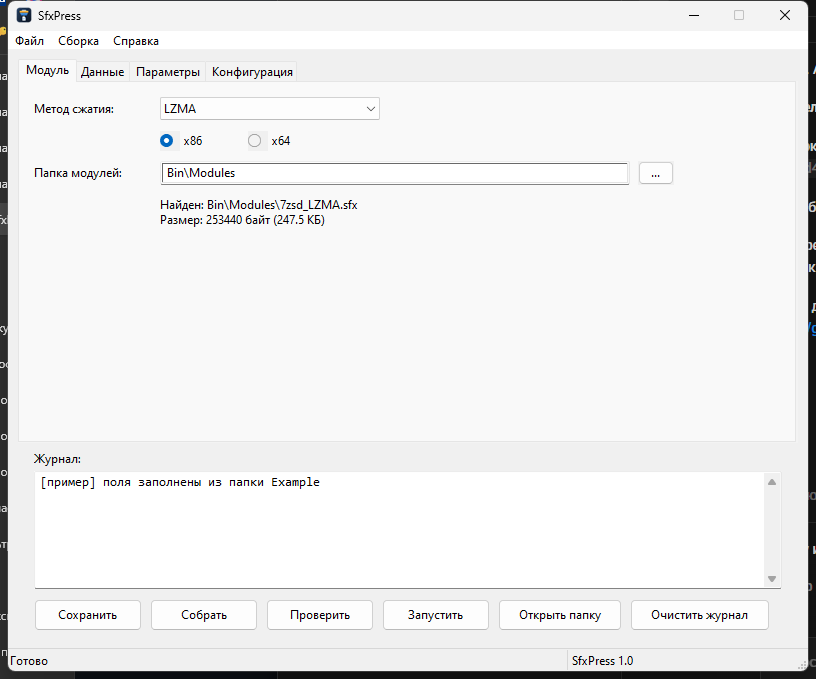
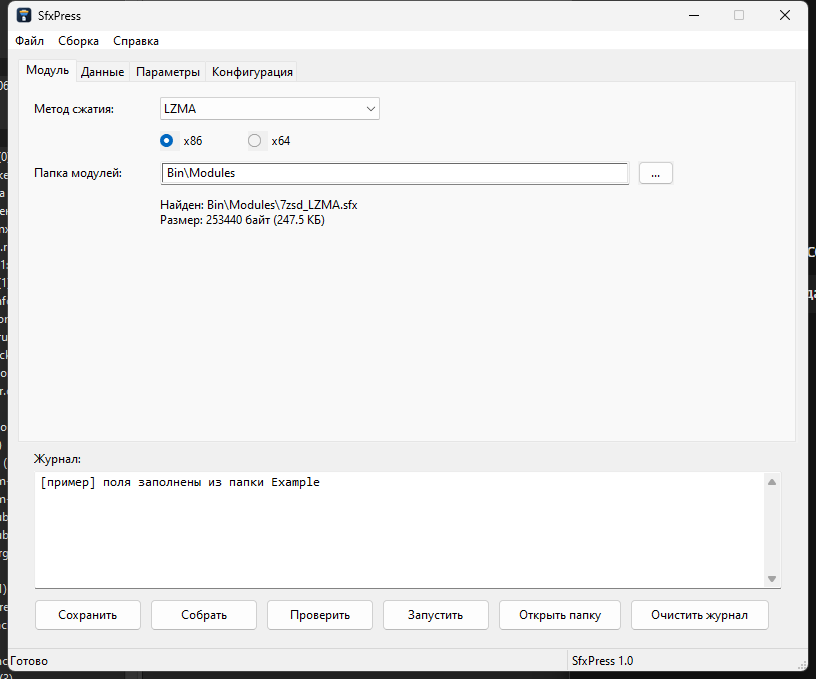
Порог поиска архива 2 МБ в соответствии с модулем 7zSD-SFX-Mod

diff --git a/help_src/build.html b/help_src/build.html
@@ -32,7 +32,7 @@ td, th { border: 1px solid #ccc; padding: 4px 8px; vertical-align: top; }
 </ul>
 
 <h2>Ограничение модуля</h2>
-<p>Конфигурация и начало архива должны попасть в первые 1 МБ файла. Если модуль
+<p>Конфигурация и начало архива должны попасть в первые 2 МБ файла. Если модуль
 и конфигурация больше, SfxPress предупредит и не станет собирать.</p>
 
 <h2>Сборка из командной строки</h2>

diff --git a/src/main.cpp b/src/main.cpp
@@ -416,8 +416,8 @@ static std::wstring BuildConfigText(std::wstring* err)
         return c;
     }
 
-    if (c.size() > 1024 * 1024) {
-        if (err) *err = L"Конфигурация больше 1 МБ: модуль не найдёт ни её, ни архив.";
+    if (c.size() > 2 * 1024 * 1024) {
+        if (err) *err = L"Конфигурация больше 2 МБ: модуль не найдёт ни её, ни архив.";
     }
     return c;
 }
@@ -490,7 +490,7 @@ static unsigned long long FindArchiveOffset(const std::wstring& path)
 {
     FILE* f = _wfopen(path.c_str(), L"rb");
     if (!f) return ULLONG_MAX;
-    std::vector<unsigned char> buf(1 << 20);
+    std::vector<unsigned char> buf(2 << 20);
     size_t n = fread(buf.data(), 1, buf.size(), f);
     fclose(f);
     const unsigned char sig[6] = { 0x37, 0x7A, 0xBC, 0xAF, 0x27, 0x1C };
@@ -582,8 +582,8 @@ static void DoBuild(bool verifyOnly)
 
     std::string cfgUtf8 = ToUtf8(cfg);
 
-    if (modSize + cfgUtf8.size() > 1024 * 1024) {
-        Log(L"[ошибка] Модуль + конфигурация больше 1 МБ: архив окажется за границей поиска.");
+    if (modSize + cfgUtf8.size() > 2 * 1024 * 1024) {
+        Log(L"[ошибка] Модуль + конфигурация больше 2 МБ: архив окажется за границей поиска.");
         SetStatus(L"Слишком большой заголовок");
         return;
     }
@@ -841,7 +841,7 @@ static void CreateUi(HWND hWnd)
           L"  [модуль .sfx] + [текст конфигурации UTF-8] + [архив]\r\n\r\n"
           L"Можно указать готовый .7z или папку: папка упакуется автоматически\r\n"
           L"(через Bin\\7z.exe рядом с конструктором).\r\n\r\n"
-          L"Конфигурация и начало архива должны попасть в первые 1 МБ файла.",
+          L"Конфигурация и начало архива должны попасть в первые 2 МБ файла.",
           152, 122, 560, 130, PAGE_DATA);
 
     const int y1 = 50, dy = 36;
